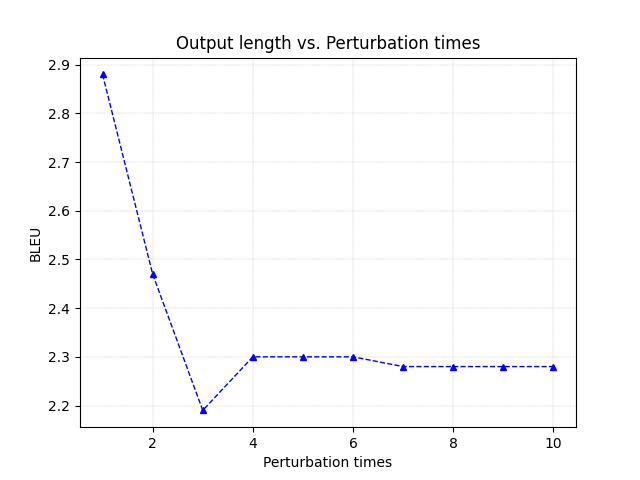
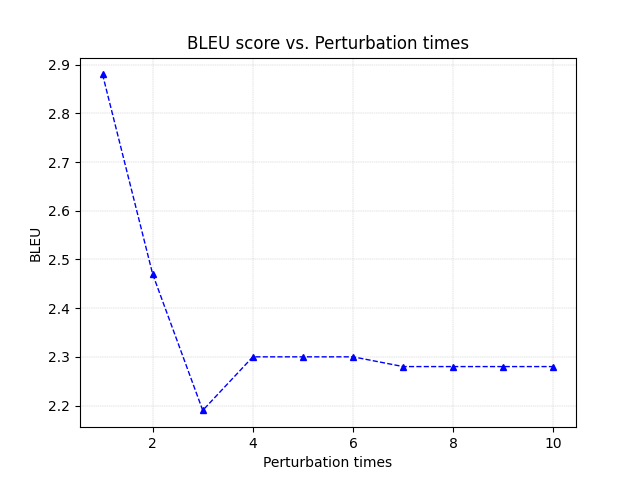
plot

Changed region(s): [[0.2812, 0.0625, 0.75, 0.125]]

diff --git a/plot.py b/plot.py
@@ -29,7 +29,7 @@ plt.plot(eps, adv_bleus, linestyle='--', marker='^', markersize=4, color='blue',
 plt.grid(color='silver', linestyle='--', linewidth=0.3)
 plt.xlabel('Perturbation times')
 plt.ylabel('BLEU')
-plt.title('Output length vs. Perturbation times')
+plt.title('BLEU score vs. Perturbation times')
 plt.savefig('BLEUs.png')
 
 
